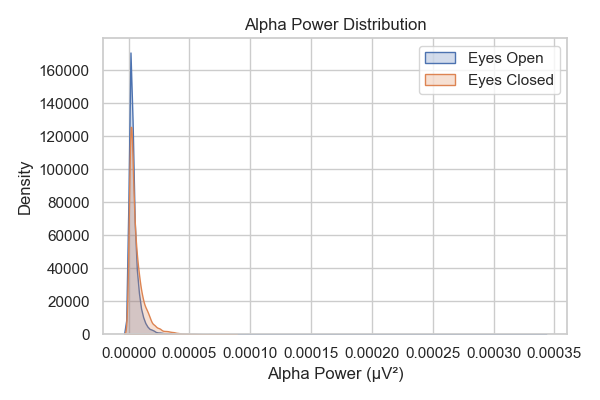
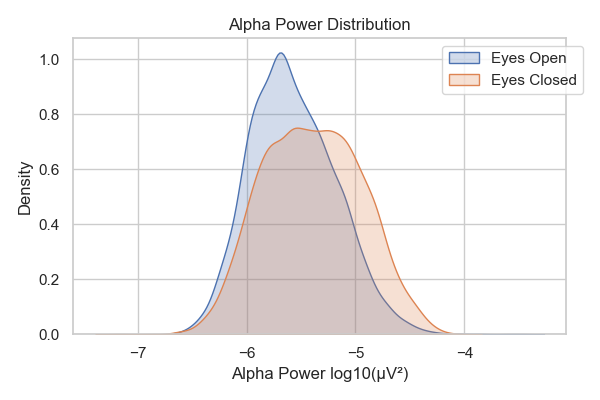
created alpha power distribution, ROC curves CV and top 10 features plots

diff --git a/eeg_analyze.py b/eeg_analyze.py
@@ -49,14 +49,25 @@ def compute_alpha_power(eeg_epochs, fs=200, alpha_band=(8,12)):
     return alpha_power
 
 def plot_alpha_distribution(alpha_eo, alpha_ec, save_path=None):
-    plt.figure(figsize=(6,4))
-    sns.kdeplot(alpha_eo, label="Eyes Open", fill=True)
-    sns.kdeplot(alpha_ec, label="Eyes Closed", fill=True)
-    plt.xlabel("Alpha Power (µV²)")
+    plt.figure(figsize=(6,4), facecolor='white')
+    
+    # Log transform for better visualization
+    alpha_eo_log = np.log10(alpha_eo)
+    alpha_ec_log = np.log10(alpha_ec)
+    # Plot KDEs with fill
+    sns.kdeplot(alpha_eo_log, label="Eyes Open", fill=True)
+    sns.kdeplot(alpha_ec_log, label="Eyes Closed", fill=True)
+    # Define upper x-limit based on 99th percentile of combined data
+    upper = np.percentile(
+        np.concatenate([alpha_eo, alpha_ec]), 99
+    )
+    #plt.xlim(0, upper)
+    plt.xlabel("Alpha Power log10(µV²)")
     plt.ylabel("Density")
     plt.title("Alpha Power Distribution")
-    plt.legend()
+    plt.legend(bbox_to_anchor=(1.05, 1), loc='upper right')
     plt.tight_layout()
+    
     if save_path:
         plt.savefig(save_path)
     plt.show()
